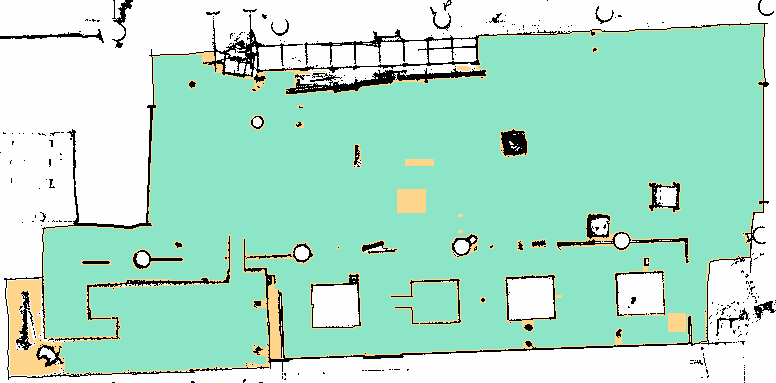
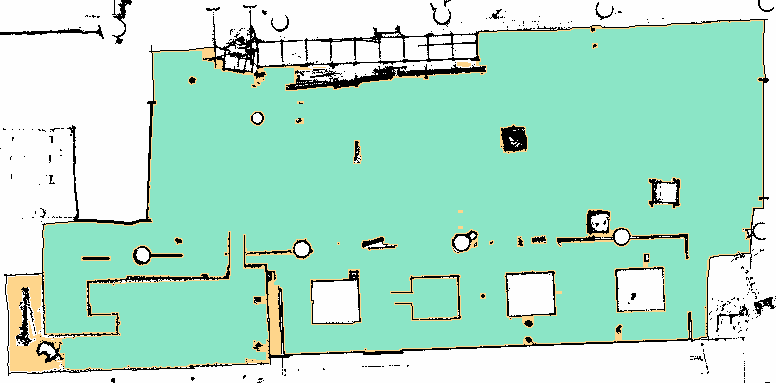
Add statistical validation results from the analysis report
Update to corrected figures (Setting 4 offset fixed): 92.6/98.7/97.9
overall. Extend Table III with staged-condition outcomes (58/60,
Wilson CI 88.6-99.1) and per-setting index bias (+1.4 to +8.1, +4.6
pooled, always optimistic). Add annotation protocol detail (0.05 m
grid, safety buffer, verified registration), chance-corrected
agreement (kappa 0.62, accessible IoU 95-98, precision 96.4-99.9),
error asymmetry (21.5 m2 optimistic vs 11:1), Setting 5 site
conditions, and the three discrepancy mechanisms with their pipeline
implications in the Discussion. Replace Setting 4 figures with the
offset-corrected versions.

diff --git a/conference_101719.tex b/conference_101719.tex
@@ -70,7 +70,7 @@ email address or ORCID}
 \maketitle
 
 \begin{abstract}
-Construction robots can only work where they can physically reach, yet no existing method quantifies in advance how much of a site a given robot can access. This paper introduces the Robot Inclusivity Index, a closed-loop framework that turns a single three-dimensional point-cloud walkthrough of a construction site into a deployment assessment for any mobile robot. From one scan, the framework generates a robot-specific traversable map that fuses footprint, overhead clearance, step, and slope tolerances, measures connected reachability within a required operating area to produce the index and an accessibility map, and ranks candidate physical site changes by their predicted gain in reachable area. A human-guided relocation interface recomputes the index live as an operator moves obstacles, and a repeat scan verifies the realised improvement. We validate the framework at an active construction site across five staged environment settings using an omnidirectional transport robot and a quadruped. Predicted accessibility maps matched the maps annotated from deployment video on 92.4 percent of the labelled area, rising to 97.7 percent once boundary rendering effects are discounted. Because every assessment derives from the same scan, a single site visit can screen an entire fleet before deployment.
+Construction robots can only work where they can physically reach, yet no existing method quantifies in advance how much of a site a given robot can access. This paper introduces the Robot Inclusivity Index, a closed-loop framework that turns a single three-dimensional point-cloud walkthrough of a construction site into a deployment assessment for any mobile robot. From one scan, the framework generates a robot-specific traversable map that fuses footprint, overhead clearance, step, and slope tolerances, measures connected reachability within a required operating area to produce the index and an accessibility map, and ranks candidate physical site changes by their predicted gain in reachable area. A human-guided relocation interface recomputes the index live as an operator moves obstacles, and a repeat scan verifies the realised improvement. We validate the framework at an active construction site across five staged environment settings using an omnidirectional transport robot and a quadruped. Predicted accessibility maps matched the maps annotated from deployment video on 92.6 percent of the labelled area, rising to 97.9 percent once annotation boundary effects are discounted, and 58 of 60 staged test conditions were predicted correctly. Because every assessment derives from the same scan, a single site visit can screen an entire fleet before deployment.
 \end{abstract}
 
 \begin{IEEEkeywords}
@@ -188,7 +188,7 @@ We evaluate the framework at an active construction site and organise the experi
 
 \subsection{Experimental Setup}
 \label{sec:setup}
-We validated the framework at the New Science Centre construction site in Singapore, an active project whose cluttered and changing conditions match the environments the method targets. Five environment settings were selected across the site, and each setting stages one or more of the validation test cases of Section~\ref{sec:testcases}. Table~\ref{tab:settings} lists the staged cases and the conditions in which each was set up, following the two-condition design of the protocol.
+We validated the framework at the New Science Centre construction site in Singapore, an active project whose cluttered and changing conditions match the environments the method targets. Five environment settings were selected across the site, and each setting stages one or more of the validation test cases of Section~\ref{sec:testcases}. Table~\ref{tab:settings} lists the staged cases and the conditions in which each was set up, following the two-condition design of the protocol. The settings span three zones of the site, and Setting~5 additionally recorded conditions found on site rather than staged, among them ramps, a wet floor, protruding rebars, and parked machinery.
 % NOTE wall reachability (TC-09) and stair climbing (TC-10) from the wider
 % catalogue are outside this paper's scope and are omitted from the table
  
@@ -206,8 +206,6 @@ For each setting the framework received the point cloud together with the parame
 \centering
 \footnotesize
 % Condensed from Appendix C of the project report, pages 16 to 26
-% TODO the per-setting assignment (which setting staged which cases, zone,
-% robot, and date) still comes from your annotation set
 \begin{tabular}{@{}llp{4.1cm}@{}}
 \toprule
 No & Test item & Staged conditions \\
@@ -248,8 +246,8 @@ Drive type ($d$) & Omnidirectional & Legged \\
 \subsection{Prediction Validation}
 \label{sec:validation}
 Across the five settings we compared the heat map predicted for each robot against the observed behaviour of the physical platform. Every staged test case was attempted by the robot and recorded on video, the executed motion was annotated onto the map, and a prediction counts as correct when a region marked accessible was traversed and a region marked inaccessible could not be entered. Figs.~\ref{fig:heatmaps_s1}--\ref{fig:heatmaps_s5} show all five settings, with the predicted heat map beside the annotated behaviour of the robot and a third panel marking every pixel on which the two disagree.
-% TODO per-test-case agreement counts and the index per robot per setting
-% once the remaining annotation comparisons are final
+% NOTE absolute per-setting RII values could be added alongside the deltas
+% in Table III if desired
 
 \begin{figure*}[!t]
 \centering
@@ -296,34 +294,34 @@ Across the five settings we compared the heat map predicted for each robot again
 \label{fig:heatmaps_s5}
 \end{figure*}
 
-The comparison was further quantified at pixel level for every setting. The behaviour observed in the deployment video was annotated onto a copy of the occupancy map, colouring the regions the robot reached and the required regions it could not enter with the same palette used by the predicted heat map. Because both maps are rendered from the same occupancy grid they align pixel for pixel, which we verified by phase correlation on the obstacle masks, and agreement therefore reduces to comparing labels at each location. We report the label similarity, the fraction of identically labelled pixels over the union of pixels labelled in either map, a denominator that penalises area coloured in only one of the two maps. Alongside it we report the colour agreement, the same fraction restricted to pixels labelled in both maps, and a tolerant variant of the label similarity that discounts pixels lying within three pixels of the other map's labelled region, which absorbs the rendering halo discussed below. Settings 1 to 3 were assessed with the Movilo and Settings 4 and 5 with the GO2, so the comparison covers both an omnidirectional and a legged platform.
+The comparison was further quantified at pixel level for every setting. The behaviour observed in the deployment video was annotated onto a copy of the occupancy map at its 0.05\,m resolution, marking the regions the robot reached as accessible and each obstacle, together with a one-to-two-cell safety buffer, as unreachable, in the same palette used by the predicted heat map. Because both maps are rendered from the same occupancy grid they align pixel for pixel, which we verified by cross-correlating the obstacle masks rather than assuming, a check that caught and corrected a four-pixel offset in the Setting~4 annotation. Agreement therefore reduces to comparing labels at each location. We report the label similarity, the fraction of identically labelled pixels over the union of pixels labelled in either map, a denominator that penalises area coloured in only one of the two maps. Alongside it we report the colour agreement, the same fraction restricted to pixels labelled in both maps, and a tolerant variant of the label similarity that discounts pixels lying within three pixels of the other map's labelled region, which absorbs the rendering halo discussed below. Settings 1 to 3 were assessed with the Movilo and Settings 4 and 5 with the GO2, so the comparison covers both an omnidirectional and a legged platform.
 % TODO state who performed the video annotation if the venue expects it
 
-Table~\ref{tab:similarity} summarises the outcome. The predicted and annotated maps carry the same label on 92.4\% of the union area overall, with per-setting values between 90.2\% and 94.1\%, and wherever both maps commit to a label they agree on 98.6\% of pixels. The gap between the two figures is dominated by a thin halo at region boundaries rather than by disagreement about accessibility, visible as the red outlines in the disagreement panels of Figs.~\ref{fig:heatmaps_s1}--\ref{fig:heatmaps_s5}. The video annotation paints its regions out to the obstacle edges while the rendered heat map leaves a narrow uncoloured margin, and per setting 80--99\% of the pixels labelled only in the annotated map lie within three pixels of the predicted region boundary. Discounting this halo raises the overall agreement to 97.7\%, and the largest contiguous interior disagreement across all five settings spans 637 pixels.
-% TODO confirm the pixel-to-metre scale of the rendered maps so the 637 px
-% patch can be expressed in square metres
+Table~\ref{tab:similarity} summarises the outcome. The predicted and annotated maps carry the same label on 92.6\% of the union area overall, with per-setting values between 90.2\% and 94.1\%, and wherever both maps commit to a label they agree on 98.7\% of pixels. The gap between the two figures is dominated by a thin band at region boundaries rather than by disagreement about accessibility, visible as the red outlines in the disagreement panels of Figs.~\ref{fig:heatmaps_s1}--\ref{fig:heatmaps_s5}. Most of this band is the safety buffer the annotation deliberately draws around obstacles, a property of the protocol rather than a prediction error, and per setting 80--100\% of the pixels labelled only in the annotated map lie within three pixels of the predicted region boundary. Discounting the band raises the overall agreement to 97.9\%, with the three-pixel tolerance sitting at the observed plateau of the similarity-versus-tolerance curve rather than being an arbitrary choice.
+
+Three further measures complete the picture. At the level of staged conditions, 58 of the 60 conducted conditions were predicted correctly, a 96.7\% match rate with a Wilson 95\% confidence interval of 88.6--99.1\%, split 26 of 27 for the Movilo and 32 of 33 for the GO2; both misses involved small objects that the point-cloud noise filtering removes. At the level of the index, the RII computed from the predicted map exceeded the value computed from the annotated map in every setting, by 1.4 to 8.1 percentage points and 4.6 pooled, as listed in Table~\ref{tab:similarity}; part of this offset is definitional, since the annotation counts its safety buffer as unreachable, so these figures bound the index error from above. Finally, because the accessible class dominates every map, we also report chance-corrected agreement: pooled Cohen's kappa is 0.62, the accessible-class intersection over union is 95--98\% per setting, and the precision of the accessible label is 96.4--99.9\%. The residual errors are asymmetric, with area wrongly marked accessible totalling 21.5\,m$^2$ across the five settings, eleven times the area wrongly marked unreachable.
 
 \begin{table}[t]
-\caption{Pixel-level agreement between predicted heat maps and video-annotated behaviour maps in the five settings. The overall row is weighted by pixel count rather than averaged over settings.}
+\caption{Per-setting validation results. Label: label similarity over the union of labelled pixels; Colour: agreement where both maps label a pixel; 3\,px: label similarity discounting the annotation boundary band; Cases: staged conditions predicted correctly of those conducted; $\Delta$RII: predicted minus ground-truth index in percentage points. The overall row is weighted by pixel count rather than averaged over settings.}
 \label{tab:similarity}
 \centering
 \footnotesize
-\begin{tabular}{@{}llccc@{}}
+\begin{tabular}{@{}llccccc@{}}
 \toprule
-Setting & Robot & Label similarity & Colour agreement & Excl.\ halo \\
+Setting & Robot & Label & Colour & 3\,px & Cases & $\Delta$RII \\
 \midrule
-1 & Movilo & 92.0\% & 98.8\% & 97.2\% \\
-2 & Movilo & 90.2\% & 96.6\% & 96.4\% \\
-3 & Movilo & 94.1\% & 99.7\% & 97.8\% \\
-4 & GO2 & 93.4\% & 99.0\% & 99.0\% \\
-5 & GO2 & 90.8\% & 97.6\% & 97.5\% \\
+1 & Movilo & 92.0\% & 98.8\% & 97.2\% & 11/11 & $+4.0$ \\
+2 & Movilo & 90.2\% & 96.6\% & 96.4\% & 11/12 & $+8.1$ \\
+3 & Movilo & 94.1\% & 99.7\% & 97.8\% & 4/4 & $+1.4$ \\
+4 & GO2 & 94.1\% & 99.8\% & 99.7\% & 8/9 & $+4.2$ \\
+5 & GO2 & 90.8\% & 97.6\% & 97.5\% & 24/24 & $+7.8$ \\
 \midrule
-Overall & & 92.4\% & 98.6\% & 97.7\% \\
+Overall & & 92.6\% & 98.7\% & 97.9\% & 58/60 & $+4.6$ \\
 \bottomrule
 \end{tabular}
 \end{table}
 
-The comparisons follow a consistent pattern. Obstacles placed at the edge of a route were correctly left accessible, passages narrower than the inflated footprint and blocking partitions were correctly marked unreachable, and the indices separated the two platforms in the order their capabilities predict. % TODO confirm these qualitative observations against the final annotation set
+The comparisons follow a consistent pattern. Obstacles placed at the edge of a route were correctly left accessible, and passages narrower than the inflated footprint and blocking partitions were correctly marked unreachable. Setting~5 extended the validation beyond staged cases to conditions found on site, a wet floor, two ramps of five and six degrees, a step fitted with a plywood ramp, protruding rebars, and parked machinery, all predicted correctly.
 
 \subsection{Closed-Loop Site Improvement}
 \label{sec:loop}
@@ -360,12 +358,12 @@ R4 & & & & \\
  
 \subsection{Discussion}
 \label{sec:discussion}
-Taken together, the experiments answer the three questions in order. Across the five settings the maps the framework predicted matched the behaviour annotated from video on 92.4\% of the labelled area, and on 97.7\% once boundary rendering effects are set aside, so the heat maps can be read as faithful forecasts of where a platform will and will not operate. The platform differences appeared where the parameters place them, which supports assessing an entire fleet from a single scan. The relocation tests show that the predicted gains are actionable rather than notional, since gains forecast in the interface were realised on the physical site and confirmed by an independent rescan. % TODO temper or strengthen this sentence once the four deltas are in
+Taken together, the experiments answer the three questions in order. Across the five settings the maps the framework predicted matched the behaviour annotated from video on 92.6\% of the labelled area, on 97.9\% once the annotation boundary band is set aside, and on 58 of 60 staged conditions, so the heat maps can be read as faithful forecasts of where a platform will and will not operate. The fourteen route-level discrepancies trace to three mechanisms, the filtering of small floor-level objects from the cloud, footprint clearance not being enforced between pairs of obstacles, and negative obstacles such as floor depressions that a point-cloud pipeline cannot see, and each maps to a concrete pipeline improvement, namely platform-aware filtering thresholds, footprint enforcement between obstacle pairs, and negative-obstacle detection from the ground plane. The direction of the first mechanism is platform-dependent, optimistic for the wheeled platform and conservative for the quadruped, which supports assessing a fleet from a single scan while showing that footprint and climbing tolerances alone do not fully capture how a legged platform negotiates small obstacles. The consistently optimistic index bias argues for reading a reported RII as an upper bound on deployment readiness. The relocation tests show that the predicted gains are actionable rather than notional, since gains forecast in the interface were realised on the physical site and confirmed by an independent rescan. % TODO temper or strengthen this sentence once the four deltas are in
 Two limitations remain. Each assessment is a snapshot of a changing site, and all settings come from a single project, with four relocation tests forming a small sample. Broader validation across sites and larger intervention studies remain for future work.
 
 \section{Conclusion}
 \label{sec:conclusion}
-This paper introduced the Robot Inclusivity Index, a closed-loop framework that turns a single point-cloud walkthrough of a construction site into a deployment assessment for any mobile robot, producing a robot-specific traversable map, an accessibility map, a single-figure index, and a ranked list of site changes with predicted gains. In a field study at an active construction site, the accessibility maps predicted for an omnidirectional and a legged platform matched the behaviour annotated from deployment video on 92.4\% of the labelled area, rising to 97.7\% once boundary rendering effects are discounted, and the guided-relocation loop was exercised end to end, from barrier diagnosis through operator-refined planning to physical changes verified by rescanning. % TODO add the measured relocation gains once Table~\ref{tab:relocation} is filled
+This paper introduced the Robot Inclusivity Index, a closed-loop framework that turns a single point-cloud walkthrough of a construction site into a deployment assessment for any mobile robot, producing a robot-specific traversable map, an accessibility map, a single-figure index, and a ranked list of site changes with predicted gains. In a field study at an active construction site, the accessibility maps predicted for an omnidirectional and a legged platform matched the behaviour annotated from deployment video on 92.6\% of the labelled area, rising to 97.9\% once annotation boundary effects are discounted, 58 of 60 staged test conditions were predicted correctly, and the guided-relocation loop was exercised end to end, from barrier diagnosis through operator-refined planning to physical changes verified by rescanning. % TODO add the measured relocation gains once Table~\ref{tab:relocation} is filled
 Future work will extend validation to additional sites and larger intervention studies, and broaden the index beyond accessibility to the other dimensions of robot inclusivity.
 % TODO review this drafted conclusion
 
